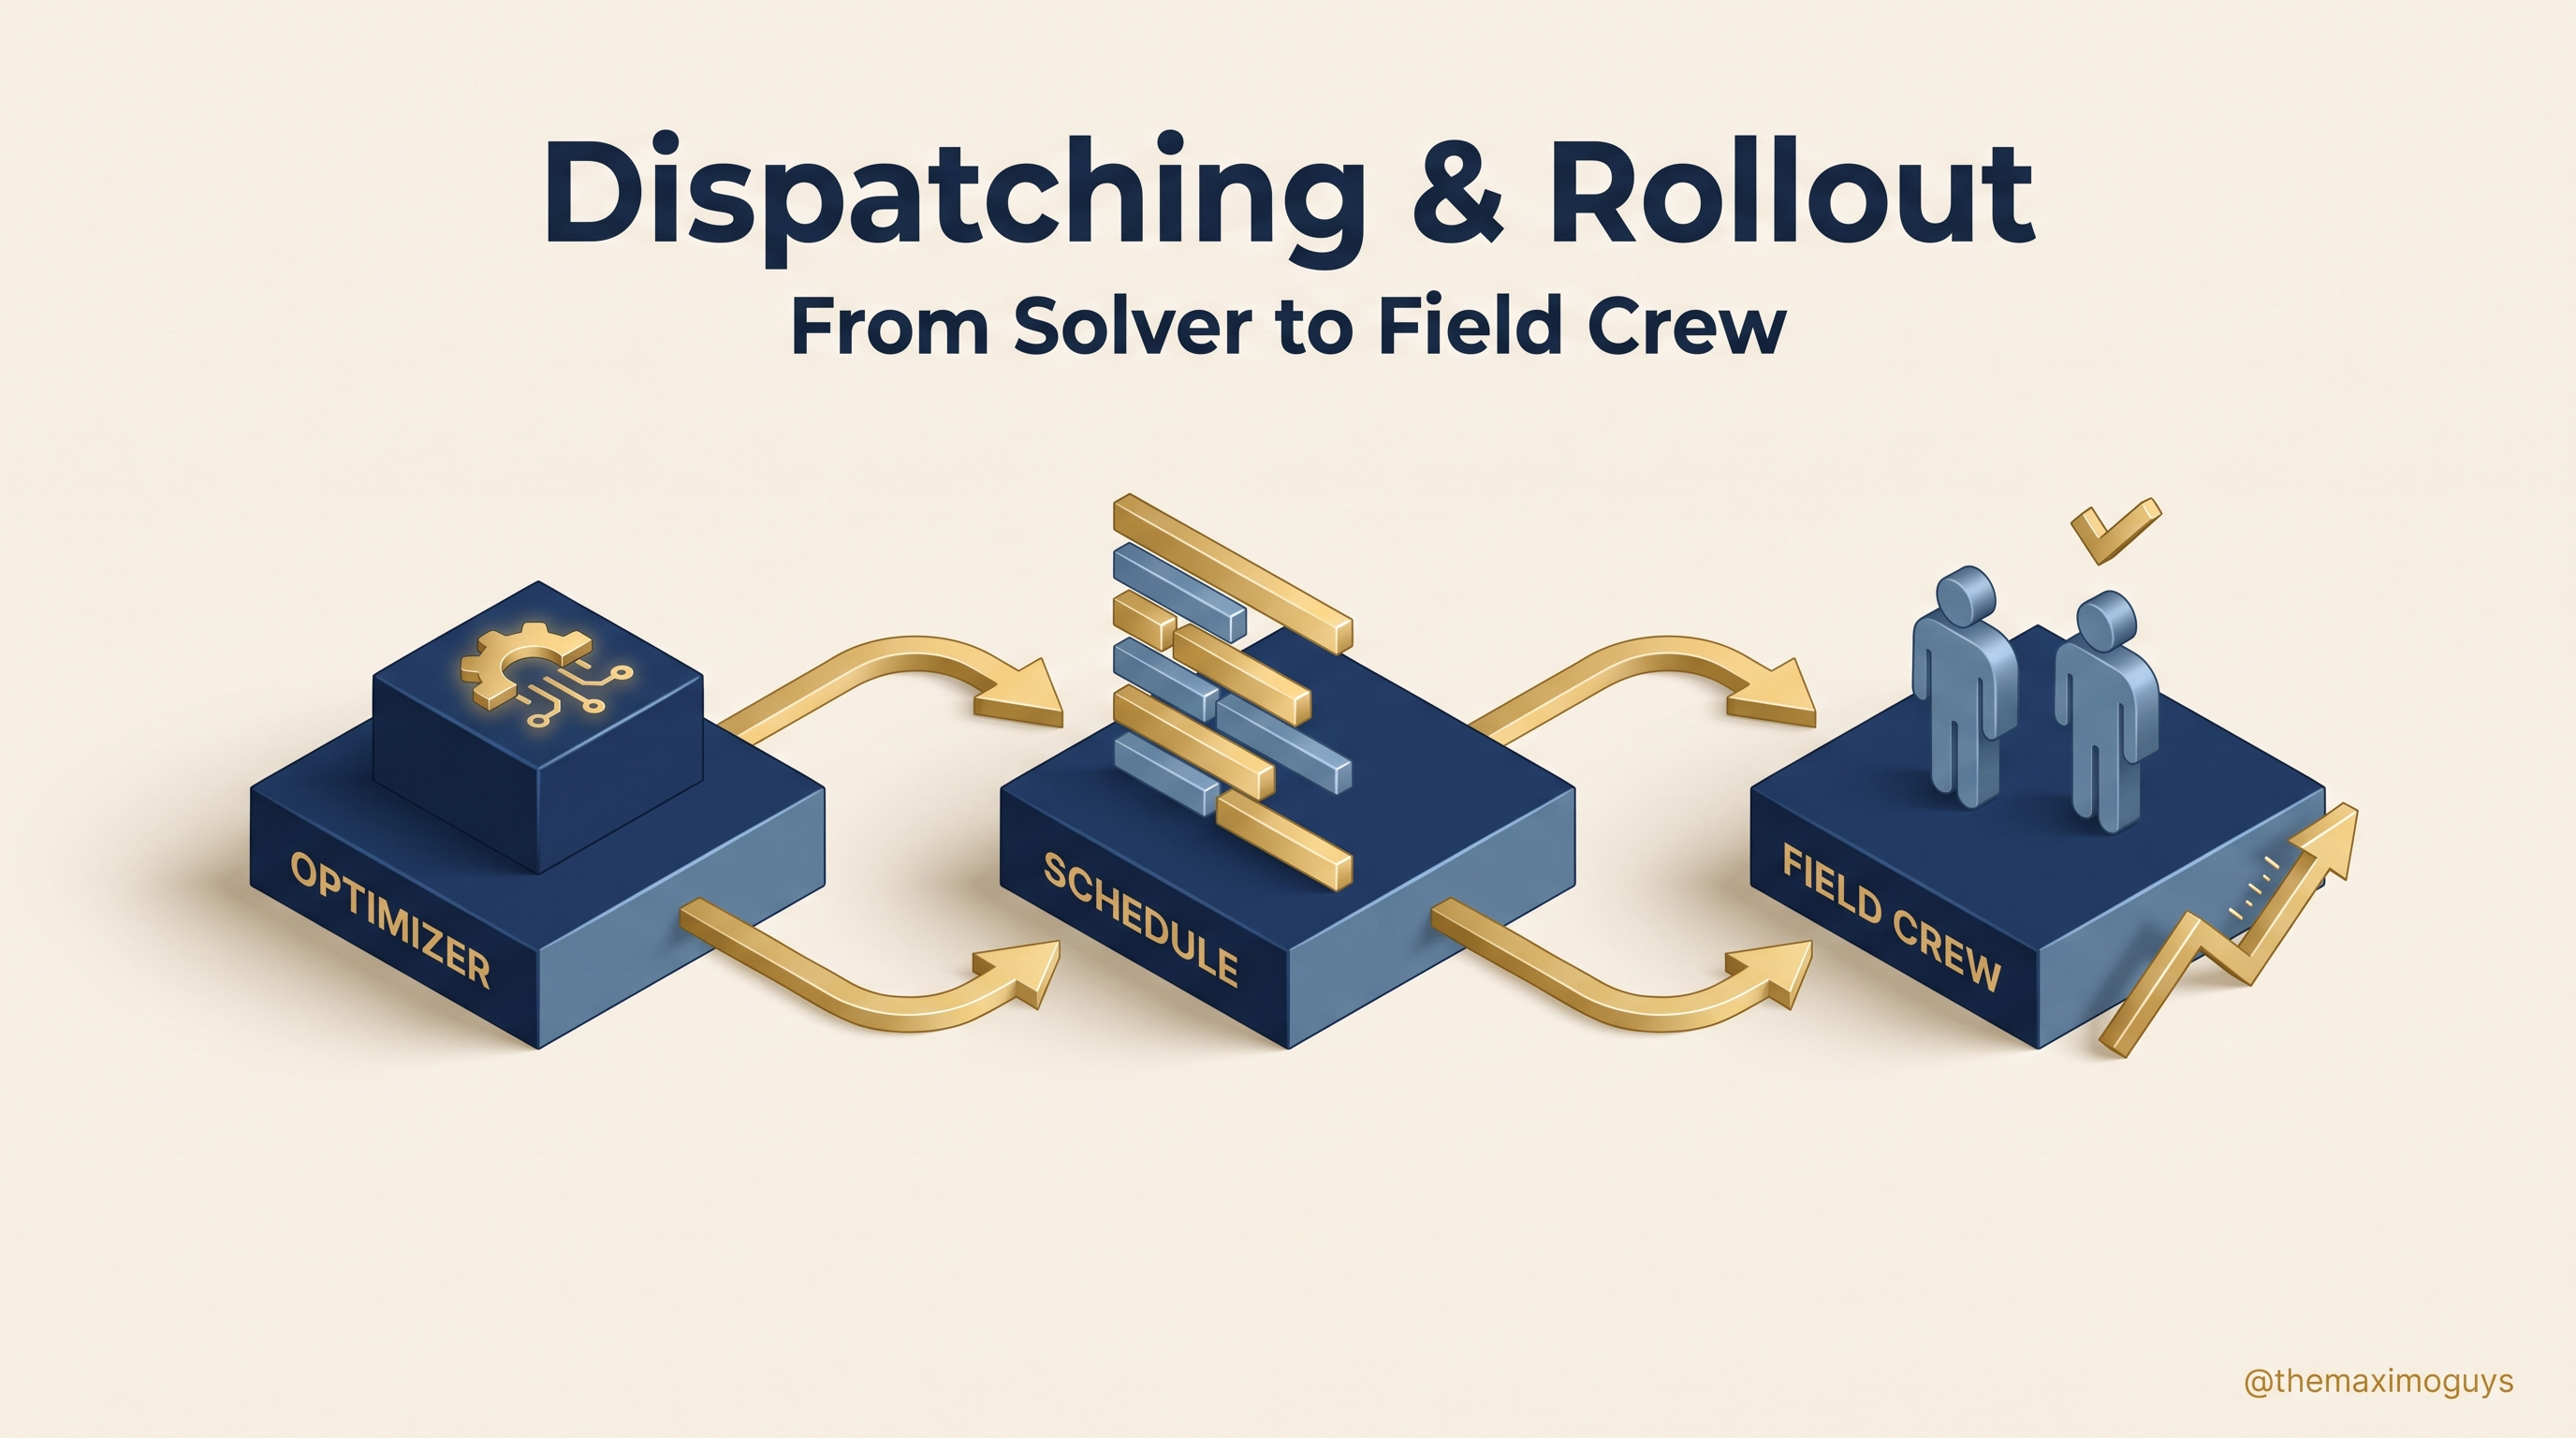
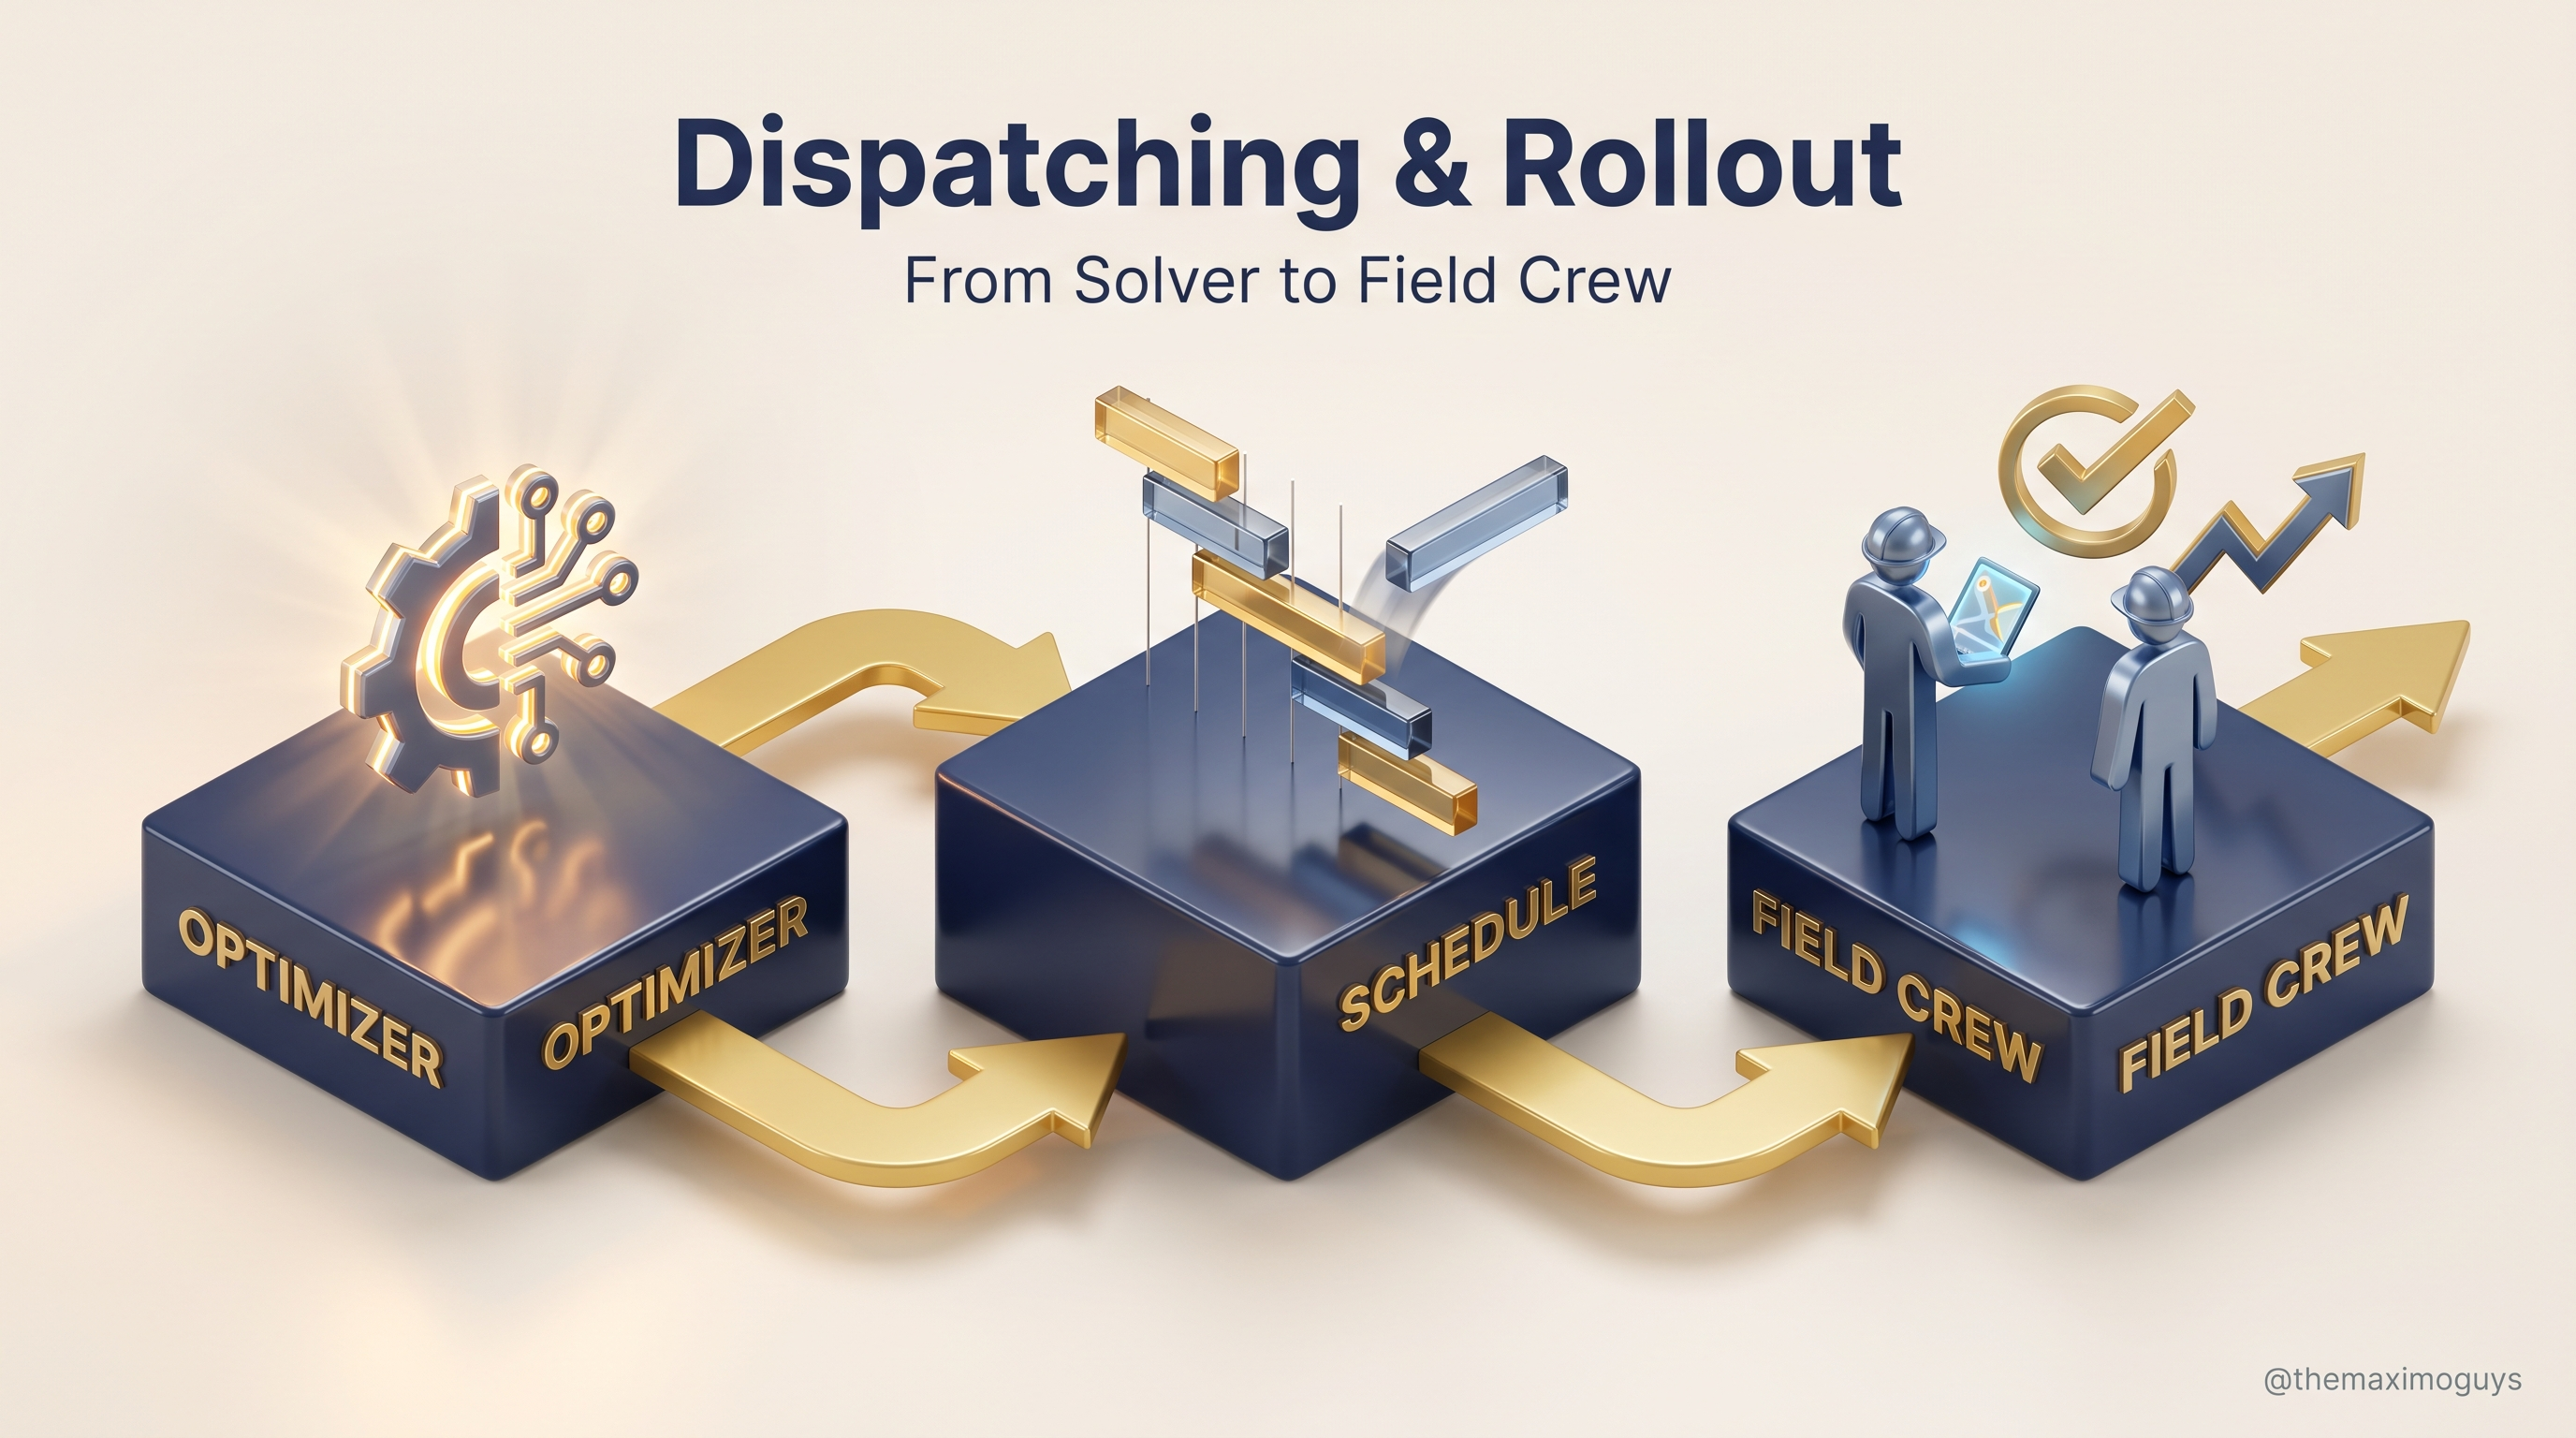
fix: Regenerate optimizer-05 cover on Gemini Pro; hard-pin pro tier in playbooks
First night-shift job produced a flat auto-tier (nb2) render. Cover
regenerated on gemini-3-pro-image-preview at 2k. Playbooks now mandate
explicit model_tier=pro on every call, require metadata verification,
and set a cinematic quality bar referencing existing covers.

diff --git a/automation/off-hours/playbooks/blog-post.md b/automation/off-hours/playbooks/blog-post.md
@@ -55,9 +55,16 @@ Generate the 16:9 cover using the style skill named in the item's `cover_style` 
 tool and follow its workflow — do NOT write a raw one-off prompt to an image model.
 
 Non-negotiable cover rules:
-- `mcp__nanobanana__generate_image` with `model_tier: "pro"`, `resolution: "2k"`,
-  `thinking_level: "high"`, `aspect_ratio: "16:9"`. NEVER Flash tier. On 503, retry Pro
-  (up to 3 times, 30s apart) — never downgrade.
+- `mcp__nanobanana__generate_image` with EXACTLY `model_tier: "pro"`, `resolution: "2k"`,
+  `thinking_level: "high"`, `aspect_ratio: "16:9"`. The `model_tier` parameter is
+  MANDATORY on every single call — omitting it selects "auto" (nb2/Flash-grade), which is
+  FORBIDDEN. Never "auto", never "nb2", never "flash". After each call, check the returned
+  metadata: `model_name` must be a Gemini Pro image model and `model_tier` must be "pro" —
+  if not, delete the image and regenerate correctly. On 503, retry Pro (up to 3 times,
+  30s apart) — never downgrade.
+- Quality bar: rich, cinematic, premium rendering with real lighting, materials, and depth
+  (see existing covers in posts/MAS-WORK-ORDER-OPS/images/ for the standard). Flat,
+  simplistic, or clip-art-looking output must be regenerated with a richer prompt.
 - 80% visual / 20% text: bold visual metaphor, title of 3-8 words, optional subtitle,
   small `@themaximoguys` attribution bottom-right. NO bullet lists, NO cheat-sheet layout.
 - Save to the exact path the post's `coverImage` frontmatter references (create the

diff --git a/automation/off-hours/playbooks/cover-batch.md b/automation/off-hours/playbooks/cover-batch.md
@@ -27,9 +27,16 @@ Invoke the assigned style skill and follow its workflow for each post. Derive ea
 concept from that post's actual topic — every cover in the batch must be visually distinct.
 
 Non-negotiable rules for every image:
-- `mcp__nanobanana__generate_image` with `model_tier: "pro"`, `resolution: "2k"`,
-  `thinking_level: "high"`, `aspect_ratio: "16:9"`. NEVER Flash tier. On 503, retry Pro
-  (up to 3 times, 30s apart) — never downgrade.
+- `mcp__nanobanana__generate_image` with EXACTLY `model_tier: "pro"`, `resolution: "2k"`,
+  `thinking_level: "high"`, `aspect_ratio: "16:9"`. The `model_tier` parameter is
+  MANDATORY on every single call — omitting it selects "auto" (nb2/Flash-grade), which is
+  FORBIDDEN. Never "auto", never "nb2", never "flash". After each call, check the returned
+  metadata: `model_name` must be a Gemini Pro image model and `model_tier` must be "pro" —
+  if not, delete the image and regenerate correctly. On 503, retry Pro (up to 3 times,
+  30s apart) — never downgrade.
+- Quality bar: rich, cinematic, premium rendering with real lighting, materials, and depth
+  (see existing covers in posts/MAS-WORK-ORDER-OPS/images/ for the standard). Flat,
+  simplistic, or clip-art-looking output must be regenerated with a richer prompt.
 - 80% visual / 20% text: bold visual metaphor for the post's core idea, title text of 3-8
   words, optional short subtitle, small `@themaximoguys` attribution bottom-right.
   NO bullet lists, NO tip lists, NO cheat-sheet/infographic layout (those are for social,